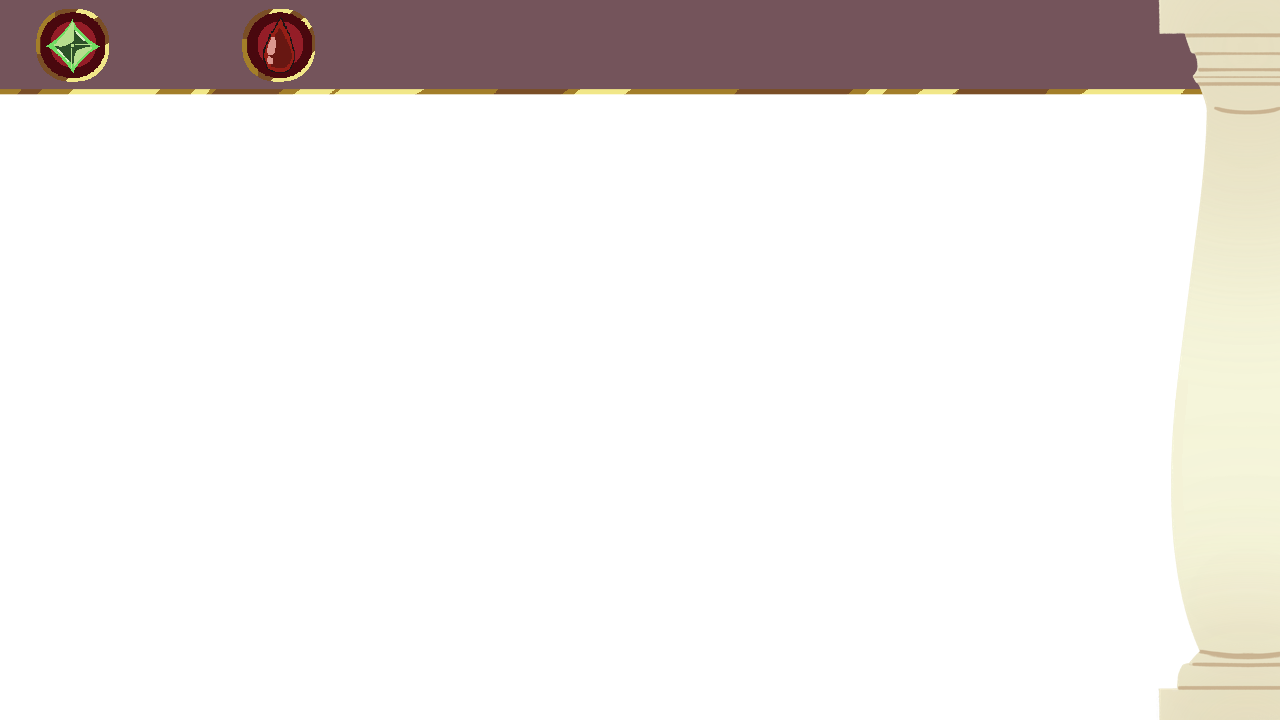
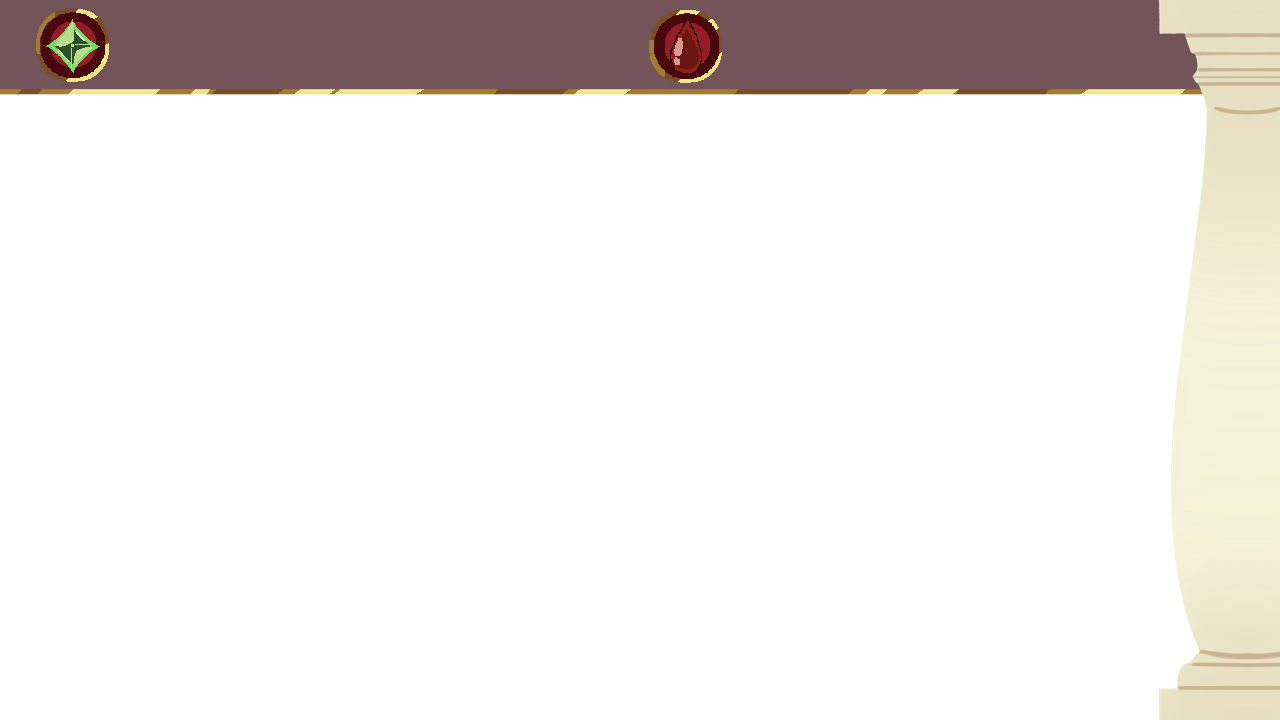
limbo inital shop display and HUD change

Changed region(s): [[0.5, 0.0, 0.5625, 0.1222], [0.1875, 0.0, 0.25, 0.1222]]

diff --git a/cdan221_actionB/Assets/Scripts/NPC_Dialogue_Shop.cs b/cdan221_actionB/Assets/Scripts/NPC_Dialogue_Shop.cs
@@ -17,7 +17,7 @@ public class NPC_Dialogue_Shop : MonoBehaviour
 	public bool startExplain = true;
 
 	void Start(){
-		sallyWelcome.SetActive(false);
+		sallyWelcome.SetActive(true);
 		sallyExplain.SetActive(false);
 		sallyDone.SetActive(false);
 	}
